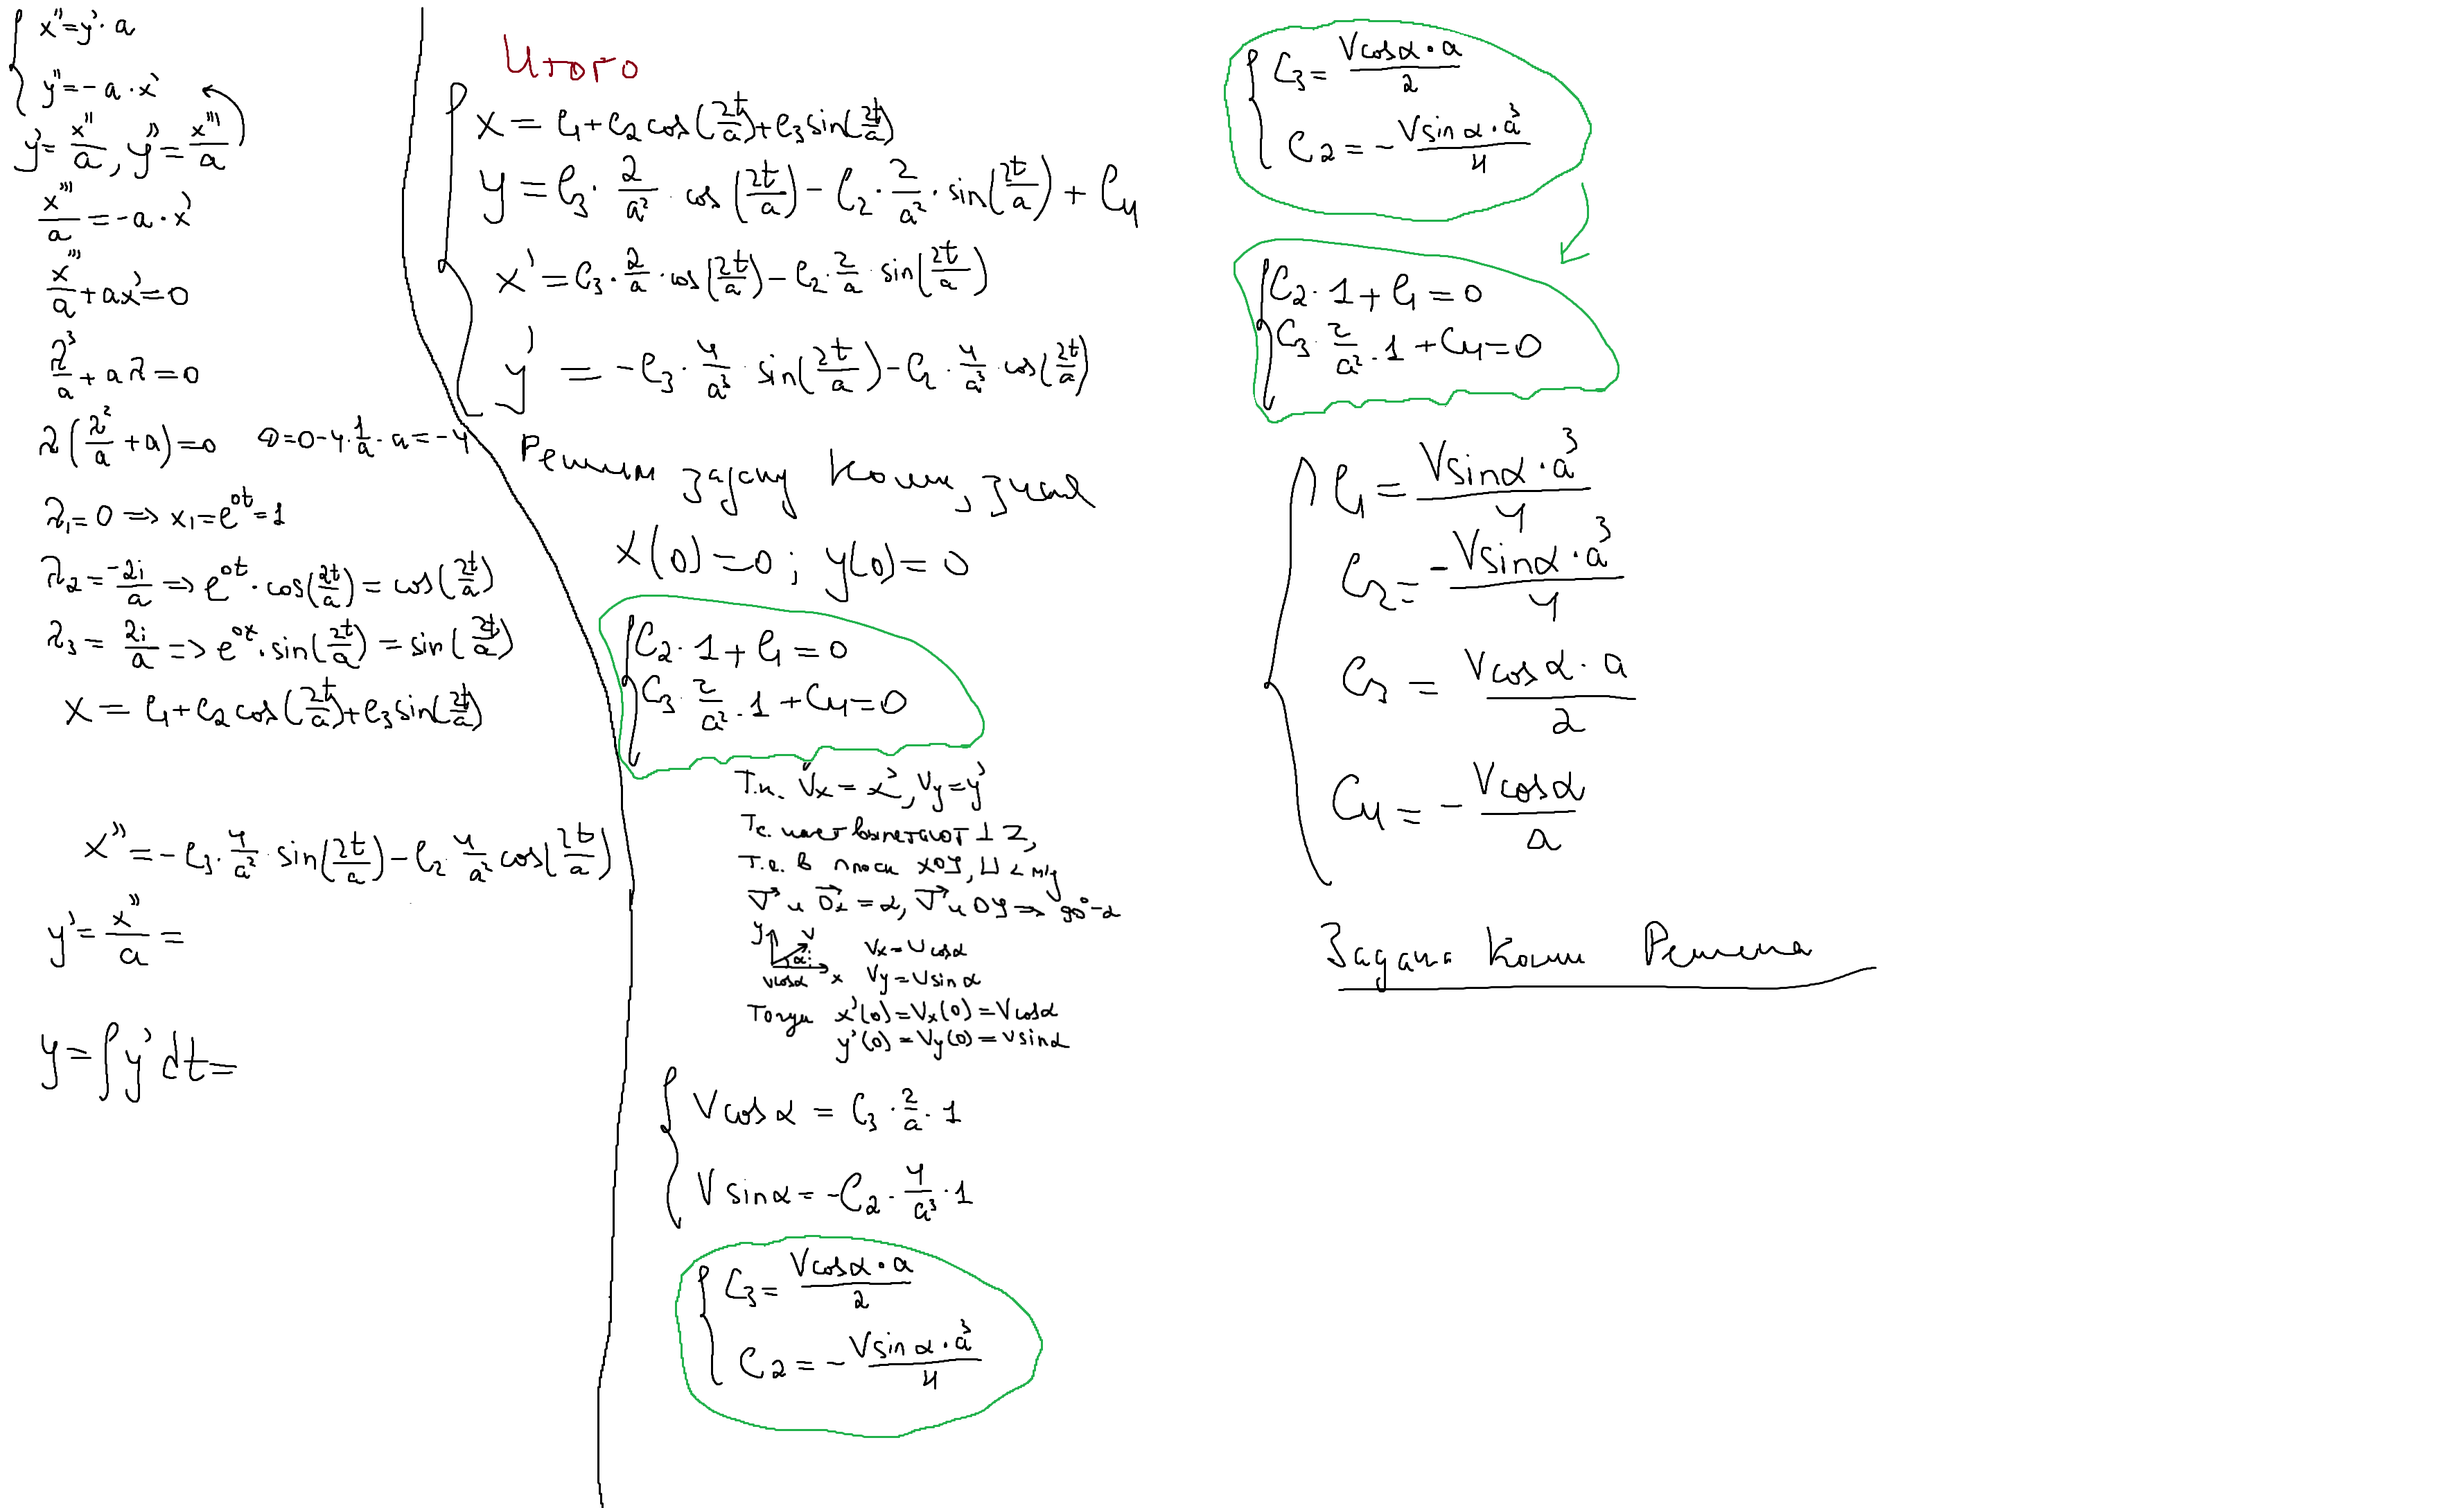
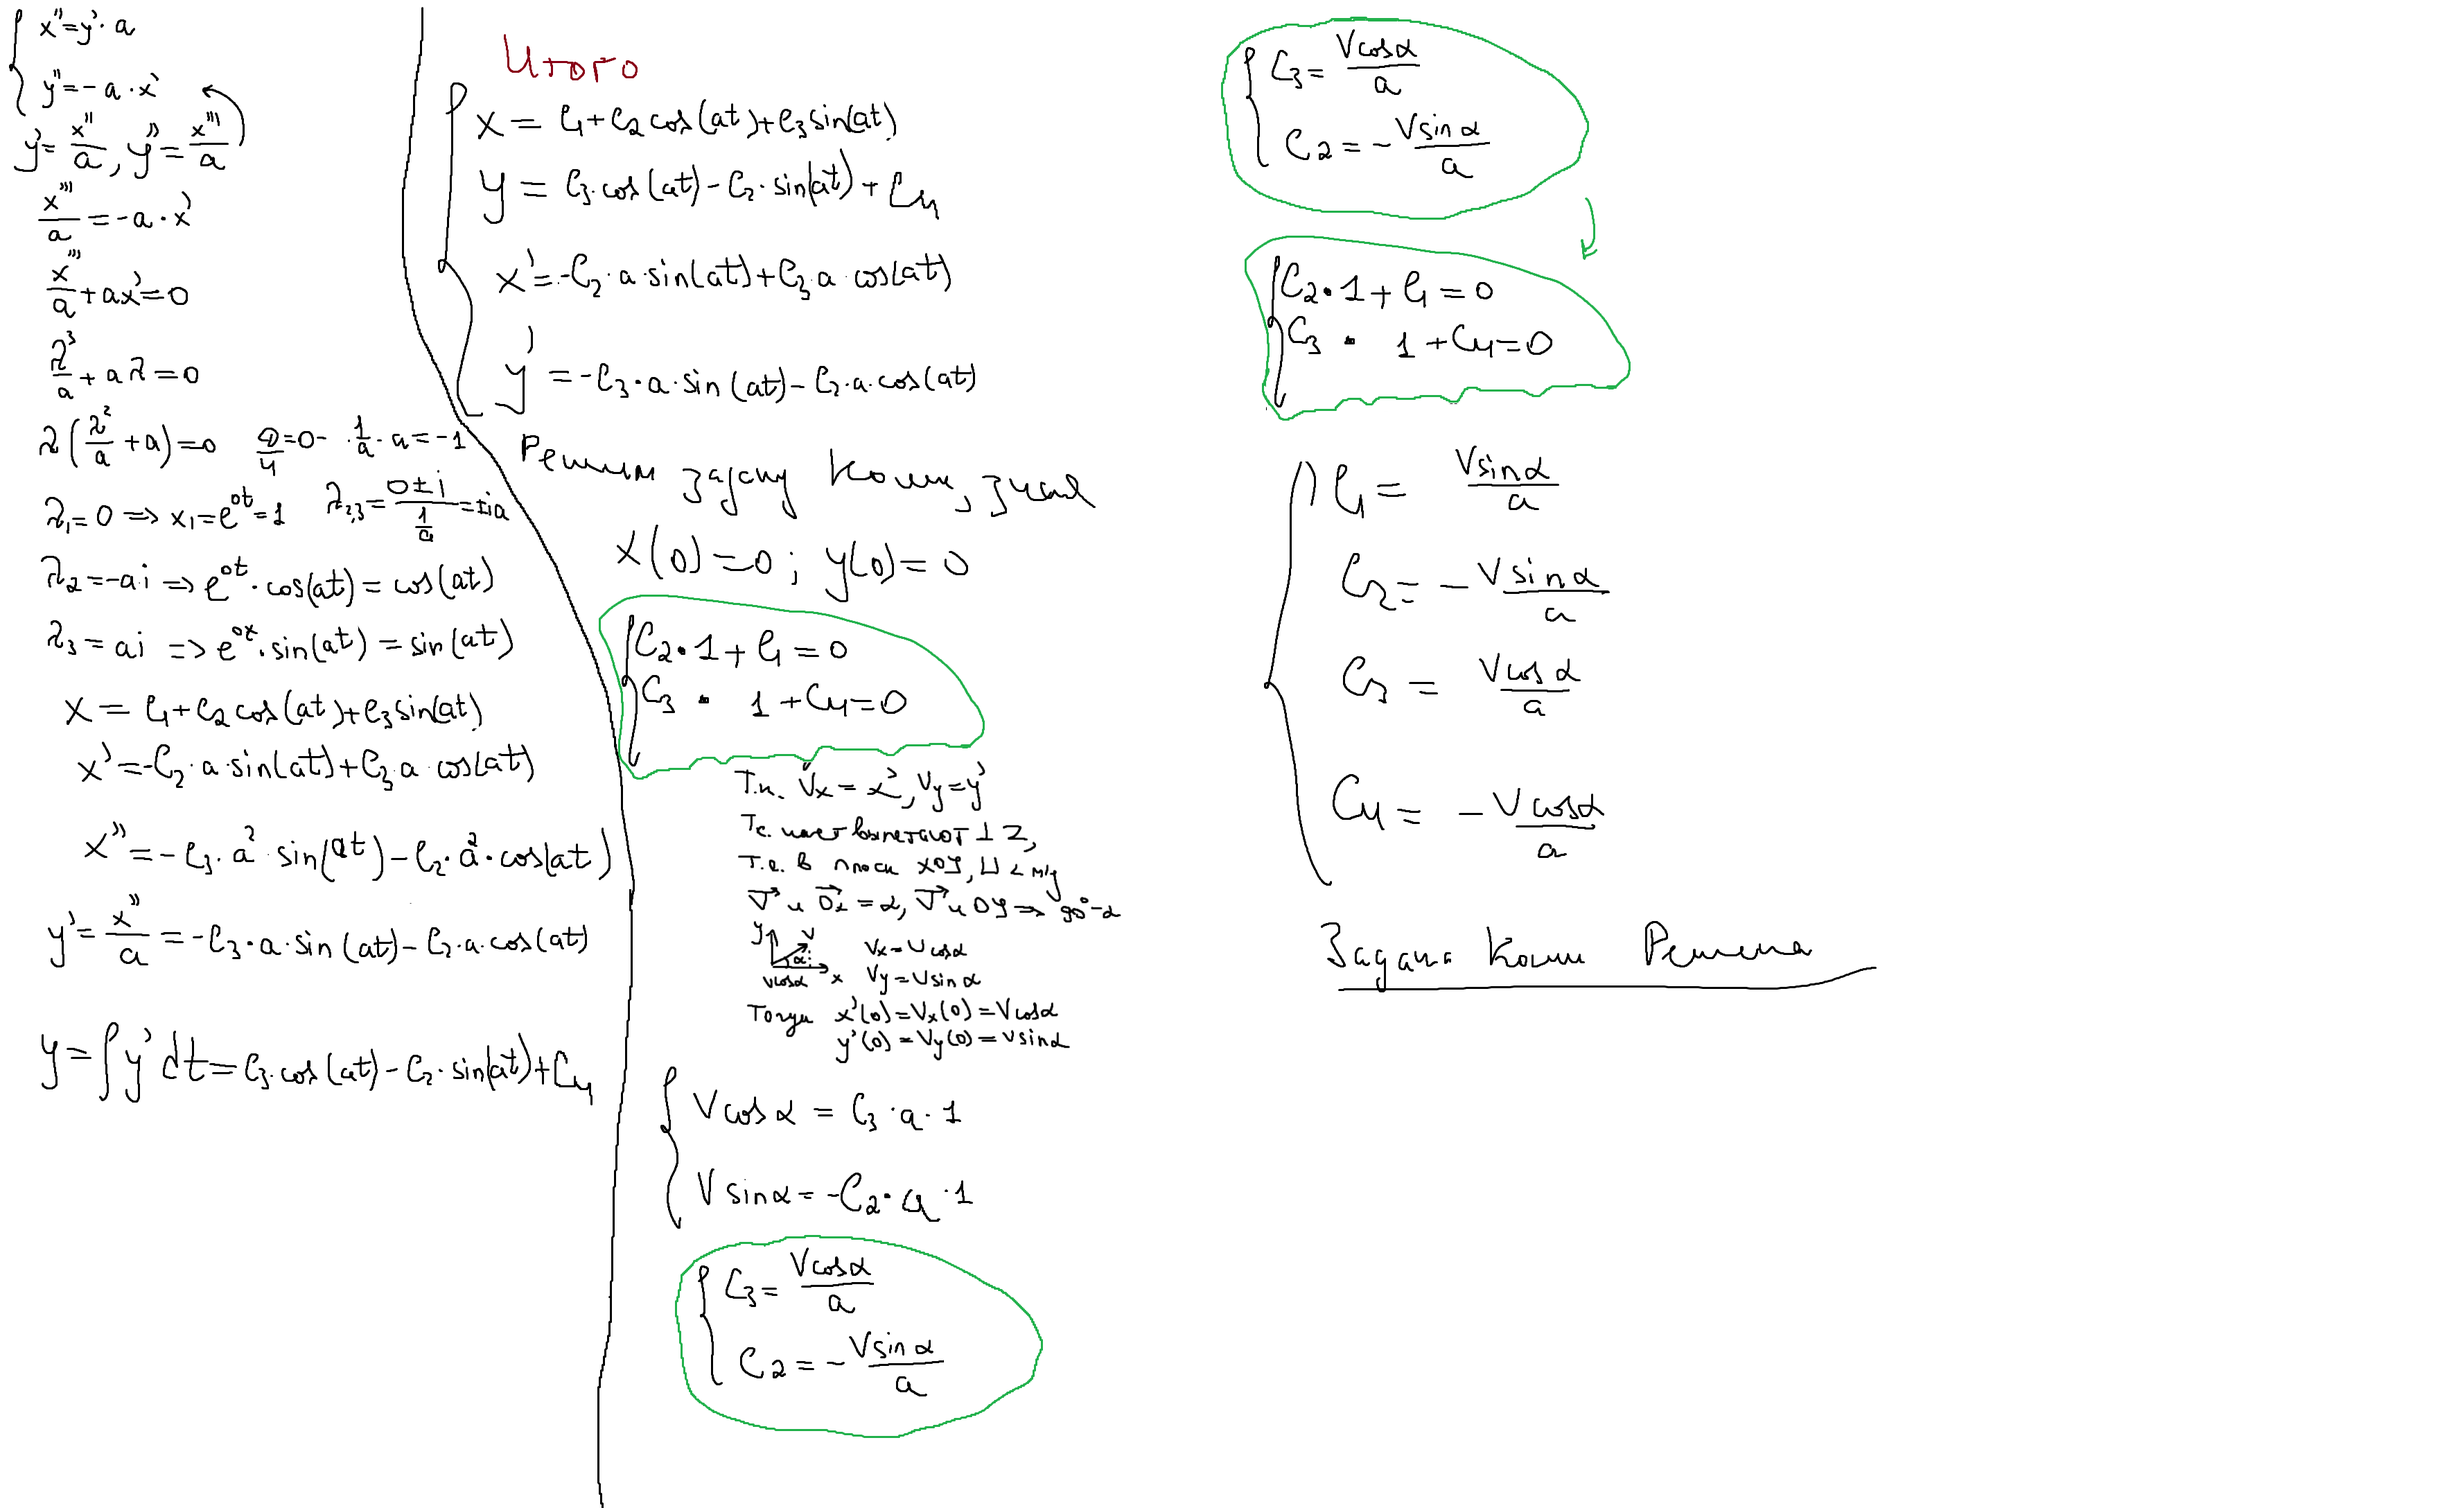
fix: again...

diff --git a/Physics/Modeling4/formulas.py b/Physics/Modeling4/formulas.py
@@ -3,32 +3,33 @@ from matplotlib import pyplot as plt
 
 
 def calculate_x(t, C1, C2, C3, a):
-    return C1 + C2 * cos(2 * t / a) + C3 * sin(2 * t / a)
+    return C1 + C2 * cos(a * t) + C3 * sin(a * t)
 
 
 def calculate_y(t, C2, C3, C4, a):
-    return C4 + C3 * (2 / a**2) * cos(2 * t / a) - C2 * (2 / a**2) * sin(2 * t / a)
+    return C4 + C3 * cos(a * t) - C2 * sin(a * t)
 
 
 def make_graph(m, q, v, B, alpha, color: str):
     a = q * B / m
 
-    C1 = (v * sin(alpha) * a**3) / 4
+    C1 = (v * sin(alpha)) / a
     C2 = -1 * C1
-    C3 = (v * cos(alpha)) / 2
-    C4 = (-1 * v * cos(alpha)) / a
+    C3 = (v * cos(alpha)) / a
+    C4 = -1 * C3
 
     arr_x = []
     arr_y = []
-    arr_t = [i for i in range(10**5)]
+    arr_t = [i / 10**6 for i in range(10**6)]
 
     for num, t in enumerate(arr_t):
         arr_x.append(calculate_x(t, C1, C2, C3, a))
         arr_y.append(calculate_y(t, C2, C3, C4, a))
-        if arr_y[-1] < -0.05:
+        if arr_y[-1] < 0:
             arr_t = arr_t[0:num]
             break
 
     plt.plot(arr_x, arr_y, color=color)
     plt.title("y(x)")
+    # plt.ylim(0, 0.03)
     plt.show()
